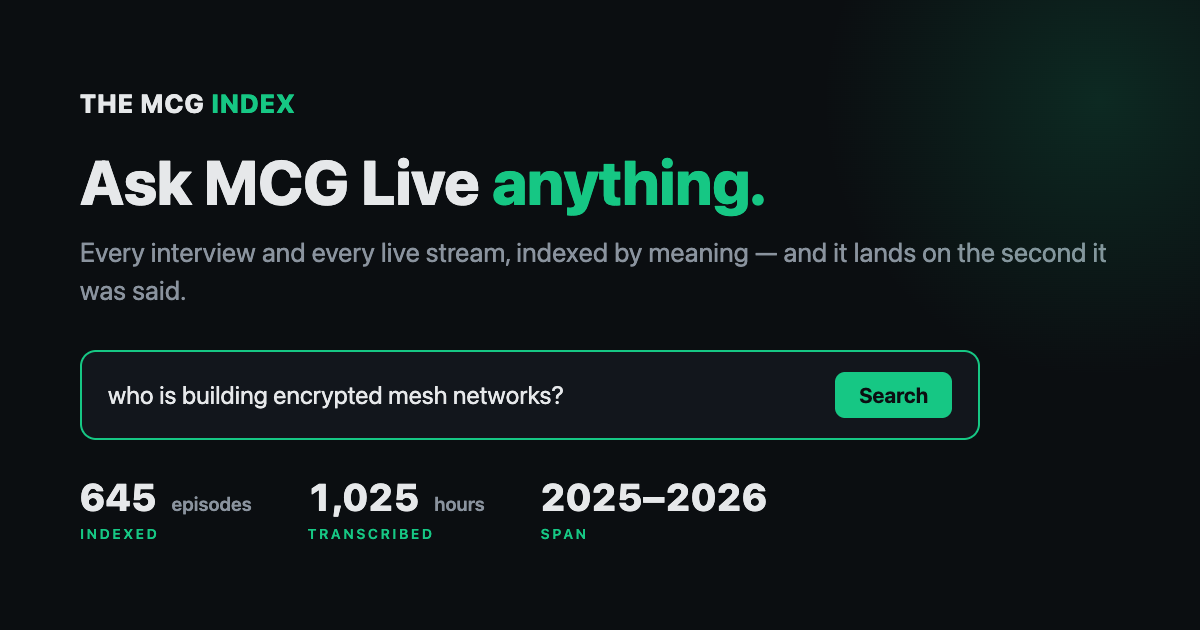
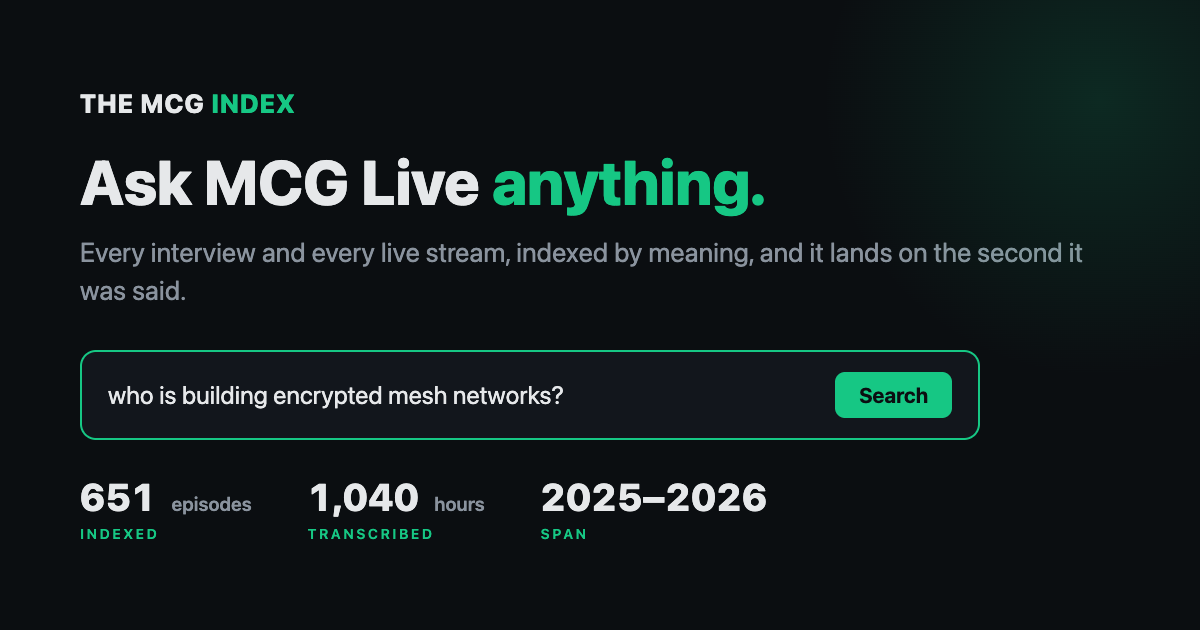
Give the finance page a share card, and stop the titles carrying em dashes
/finance declared twitter:card=summary_large_image and then shipped no
image, so every link to it rendered as a blank card. It has one now, in
the page's own paper and oxblood rather than the crypto green of the
other three, with a source file beside it so the numbers can be
re-rendered instead of going stale.

Its og:description was already stale: 19 recordings and 22.5 hours,
naming five of the eight subjects, against 30 and 36 today. The Musk
page had the same rot, 11 recordings and 31.8 hours against 14 and 37.8,
and the MCG card still drew 645 episodes and 1,025 hours against 651 and
1,040.

Every og:title used an em dash. They render on X, so they are copy.

Editing podcast.html's title then broke the share card: the per-question
og:title rewrite matched the old string literally and silently stopped
firing, which two tests caught. It now matches the tag by name, the way
the og:image rewrite four lines below it always did.

Changed region(s): [[0.6167, 0.3921, 0.925, 0.4222], [0.0925, 0.754, 0.1542, 0.8143], [0.3083, 0.754, 0.3392, 0.8143]]

diff --git a/demo/og-finance-card.html b/demo/og-finance-card.html
@@ -1,0 +1,74 @@
+<!DOCTYPE html>
+<!-- Source for the 1200x630 social preview image on the finance page
+     (og-finance.png). Re-render after edits:
+       node scripts/make_og_image.mjs finance
+
+     The finance page shipped with no og:image at all while declaring
+     twitter:card=summary_large_image, so every link to it rendered as a
+     blank card, and its og:description still claimed 19 recordings and
+     22.5 hours after the archive had grown to 30 and 36. Both numbers
+     live here and in finance.html, and both are changed together.
+
+     Deliberately not the crypto-green card the other three archives
+     use. This page reports a sentence somebody said on the record, so
+     it wears the paper and oxblood of the page itself. -->
+<html><head><meta charset="utf-8"><style>
+  @font-face { font-family: "Instrument Serif";
+    src: url("fonts/InstrumentSerif-Regular.ttf") format("truetype"); }
+  @font-face { font-family: "InterV";
+    src: url("fonts/Inter-Variable.ttf") format("truetype"); }
+  *{margin:0;padding:0;box-sizing:border-box}
+  body{width:1200px;height:630px;background:#f4f1ea;color:#17150f;
+    font-family:"InterV",-apple-system,BlinkMacSystemFont,sans-serif;
+    display:flex;flex-direction:column;justify-content:center;
+    padding:64px 76px;position:relative;overflow:hidden}
+  /* A press-sheet tint in the corner rather than a glow: the same job as
+     the dark cards' radial, in a palette that has no neon to spare. */
+  .tint{position:absolute;right:-200px;top:-220px;width:640px;height:640px;
+    border-radius:50%;background:radial-gradient(circle,#7c212814,transparent 70%)}
+  .eyebrow{font-family:ui-monospace,SFMono-Regular,Menlo,monospace;
+    font-size:14px;letter-spacing:.2em;text-transform:uppercase;
+    color:#7c2128;font-weight:600;margin-bottom:22px}
+  h1{font-family:"Instrument Serif",Georgia,serif;font-weight:400;
+    font-size:78px;line-height:1.02;letter-spacing:-1px;margin-bottom:16px}
+  /* Instrument Serif's italic y swings right into the next word, so the
+     space after <em> has to be paid for explicitly. */
+  h1 em{font-style:italic;color:#7c2128;margin-right:.14em}
+  .sub{font-size:24px;color:#4b4639;line-height:1.38;max-width:930px;
+    margin-bottom:34px}
+  .searchbox{display:flex;align-items:center;gap:14px;background:#fbfaf7;
+    border:1.5px solid #c8c0ac;border-radius:10px;padding:18px 22px;width:920px}
+  .searchbox .q{font-size:23px;color:#17150f;flex:1}
+  .searchbox .btn{background:#7c2128;color:#fbfaf7;font-weight:600;
+    font-size:19px;border-radius:7px;padding:10px 26px}
+  .readout{display:flex;gap:64px;margin-top:36px;align-items:flex-end}
+  .n{font-size:42px;font-weight:700;line-height:1;white-space:nowrap;
+     font-variant-numeric:tabular-nums;letter-spacing:-.5px}
+  .n span{font-size:18px;font-weight:500;color:#8a8371;margin-left:8px}
+  .who{font-family:ui-monospace,SFMono-Regular,Menlo,monospace;
+    font-size:12px;font-weight:600;letter-spacing:.16em;
+    text-transform:uppercase;color:#8a8371;margin-top:10px}
+  .names{font-family:"Instrument Serif",Georgia,serif;font-size:20px;
+    color:#4b4639;padding-bottom:5px;line-height:1.35;max-width:300px}
+</style></head><body>
+  <div class="tint"></div>
+  <div class="eyebrow">The Record</div>
+  <h1>What they <em>actually</em>&nbsp;said.</h1>
+  <div class="sub">Twelve years of long-form interviews with the people who run
+  the money, transcribed and searchable by meaning. Ask a question, get the
+  sentence and the second it was said.</div>
+  <div class="searchbox">
+    <div class="q">when did fink change his mind on bitcoin?</div>
+    <div class="btn">Ask</div>
+  </div>
+  <div class="readout">
+    <div><div class="n">30 <span>recordings</span></div>
+      <div class="who">indexed</div></div>
+    <div><div class="n">36 <span>hours</span></div>
+      <div class="who">transcribed</div></div>
+    <div><div class="n">2014<span style="margin:0 6px">to</span>2026</div>
+      <div class="who">span</div></div>
+    <div class="names">Fink &middot; Dalio &middot; Powell &middot; Dimon<br>
+      Wood &middot; Schwarzman &middot; Saylor &middot; Pal</div>
+  </div>
+</body></html>

diff --git a/demo/elon.html b/demo/elon.html
@@ -1,6 +1,6 @@
 <!doctype html>
 <meta charset="utf-8">
-<title>The Musk Record — every long-form interview, searchable to the second</title>
+<title>The Musk Record: every long-form interview, searchable to the second</title>
 <meta name="viewport" content="width=device-width,initial-scale=1">
 <meta name="description" content="Every long-form Elon Musk interview, transcribed and
 searchable by meaning. Ask a question, get the moment he said it, down to the second.">
@@ -11,8 +11,8 @@ searchable by meaning. Ask a question, get the moment he said it, down to the se
      og-musk.png is drawn from the archive's own figures rather than typed
      out, so it cannot drift from the page the way the "Five conversations"
      line did. Regenerate it whenever recordings are added. -->
-<meta property="og:title" content="The Musk Record — every long-form interview, searchable to the second">
-<meta property="og:description" content="11 conversations with Lex Fridman and Joe Rogan, 2018 to 2025. 31.8 hours, indexed by meaning. Ask a question, get the moment he said it.">
+<meta property="og:title" content="The Musk Record: every long-form interview, searchable to the second">
+<meta property="og:description" content="14 conversations with Lex Fridman, Joe Rogan, the Economist and the 2024 Trump space, 2018 to 2026. 37.8 hours, indexed by meaning. Ask a question, get the moment he said it.">
 <meta property="og:image" content="https://search.lexthedev.com/demo/og-musk.png">
 <meta property="og:image:width" content="1200">
 <meta property="og:image:height" content="630">
@@ -20,10 +20,10 @@ searchable by meaning. Ask a question, get the moment he said it, down to the se
 <meta property="og:type" content="website">
 <meta property="og:site_name" content="The Musk Record">
 <meta name="twitter:card" content="summary_large_image">
-<meta name="twitter:title" content="The Musk Record — every long-form interview, searchable to the second">
-<meta name="twitter:description" content="11 conversations with Lex Fridman and Joe Rogan, 2018 to 2025. 31.8 hours, indexed by meaning. Ask a question, get the moment he said it.">
+<meta name="twitter:title" content="The Musk Record: every long-form interview, searchable to the second">
+<meta name="twitter:description" content="14 conversations with Lex Fridman, Joe Rogan, the Economist and the 2024 Trump space, 2018 to 2026. 37.8 hours, indexed by meaning. Ask a question, get the moment he said it.">
 <meta name="twitter:image" content="https://search.lexthedev.com/demo/og-musk.png">
-<meta name="twitter:image:alt" content="The Musk Record — 11 recordings, 31.8 hours, 44,346 spoken lines, 2018 to 2025">
+<meta name="twitter:image:alt" content="The Musk Record: 14 recordings, 37.8 hours, 50,123 spoken lines, 2018 to 2026">
 
 <!--
   A deliberately different room from the Market Bubble page.

diff --git a/demo/clawpump.html b/demo/clawpump.html
@@ -3,19 +3,19 @@
 <head>
 <meta charset="utf-8">
 <meta name="viewport" content="width=device-width,initial-scale=1">
-<title>ClawPump Support — answers from the docs, with sources</title>
+<title>ClawPump Support: answers from the docs, with sources</title>
 <meta name="description" content="An independent support assistant for ClawPump — agents, skills, gasless launches, creator fees and the MCP server, answered from ClawPump's public documentation.">
 <!-- Social preview (X/Discord/Telegram unfurl). Without an og:image and a
      twitter:card, X renders a bare grey stub instead of a card. No og:url:
      naming a canonical lets a scraper resolve a fresh link back to whatever
      it cached against that URL. -->
-<meta property="og:title" content="ClawPump Support — answers from the docs, with sources">
-<meta property="og:description" content="Agents, skills, gasless launches, creator fees and MCP — answered from ClawPump's docs, citing the page it used. Says &quot;I don't have that&quot; instead of guessing.">
+<meta property="og:title" content="ClawPump Support: answers from the docs, with sources">
+<meta property="og:description" content="Agents, skills, gasless launches, creator fees and MCP, answered from ClawPump's docs, citing the page it used. Says &quot;I don't have that&quot; instead of guessing.">
 <meta property="og:image" content="https://concierge.lexthedev.com/demo/og-clawpump-scam.png">
 <meta property="og:type" content="website">
 <meta name="twitter:card" content="summary_large_image">
-<meta name="twitter:title" content="ClawPump Support — answers from the docs, with sources">
-<meta name="twitter:description" content="Agents, skills, gasless launches, creator fees and MCP — answered from ClawPump's docs, citing the page it used. Says &quot;I don't have that&quot; instead of guessing.">
+<meta name="twitter:title" content="ClawPump Support: answers from the docs, with sources">
+<meta name="twitter:description" content="Agents, skills, gasless launches, creator fees and MCP, answered from ClawPump's docs, citing the page it used. Says &quot;I don't have that&quot; instead of guessing.">
 <meta name="twitter:image" content="https://concierge.lexthedev.com/demo/og-clawpump-scam.png">
 <link rel="stylesheet" href="/demo/ui.css">
 <style>

diff --git a/demo/finance.html b/demo/finance.html
@@ -1,19 +1,24 @@
 <!doctype html>
 <meta charset="utf-8">
-<title>The Record — what finance's biggest names actually said, to the second</title>
+<title>The Record: what finance's biggest names actually said, to the second</title>
 <meta name="viewport" content="width=device-width,initial-scale=1">
 <meta name="description" content="Fink, Dalio, Dimon, Schwarzman and Saylor. Twelve years
 of long-form interviews, transcribed and searchable by meaning. Ask a question, get the
 moment they said it, down to the second.">
 
-<meta property="og:title" content="The Record — what finance's biggest names actually said">
-<meta property="og:description" content="Fink, Dalio, Dimon, Schwarzman, Saylor. 19 recordings, 22.5 hours, 2014 to 2026. Searchable by meaning, cited to the second.">
+<meta property="og:title" content="The Record: what finance's biggest names actually said">
+<meta property="og:description" content="Fink, Dalio, Powell, Dimon, Cathie Wood, Schwarzman, Saylor, Raoul Pal. 30 recordings, 36 hours, 2014 to 2026. Searchable by meaning, cited to the second.">
+<meta property="og:image" content="https://search.lexthedev.com/demo/og-finance.png">
+<meta property="og:image:width" content="1200">
+<meta property="og:image:height" content="630">
 <meta property="og:url" content="https://search.lexthedev.com/finance">
 <meta property="og:type" content="website">
 <meta property="og:site_name" content="The Record">
 <meta name="twitter:card" content="summary_large_image">
-<meta name="twitter:title" content="The Record — what finance's biggest names actually said">
-<meta name="twitter:description" content="Fink, Dalio, Dimon, Schwarzman, Saylor. 19 recordings, 22.5 hours, 2014 to 2026. Cited to the second.">
+<meta name="twitter:image" content="https://search.lexthedev.com/demo/og-finance.png">
+<meta name="twitter:image:alt" content="The Record: 30 recordings, 36 hours, eight names, 2014 to 2026">
+<meta name="twitter:title" content="The Record: what finance's biggest names actually said">
+<meta name="twitter:description" content="Fink, Dalio, Powell, Dimon, Cathie Wood, Schwarzman, Saylor, Raoul Pal. 30 recordings, 36 hours. Cited to the second.">
 
 <!--
   A deliberately different room again, and this time a lit one.

diff --git a/demo/podcast.html b/demo/podcast.html
@@ -3,10 +3,10 @@
 <head>
 <meta charset="utf-8">
 <meta name="viewport" content="width=device-width, initial-scale=1">
-<title>Market Bubble Search — ask the broadcast anything</title>
+<title>Market Bubble Search: ask the broadcast anything</title>
 <meta name="description" content="Search every Market Bubble episode by meaning and jump to the exact moment on YouTube. Free, no login, open source.">
 <!-- Social preview (X/Discord/Telegram unfurl) -->
-<meta property="og:title" content="Market Bubble Search — ask the broadcast anything">
+<meta property="og:title" content="Market Bubble Search: ask the broadcast anything">
 <meta property="og:description" content="Search every episode by meaning and jump to the exact moment on YouTube. Free, no login, open source.">
 <meta property="og:image" content="https://search.lexthedev.com/demo/og-broadcast.png">
 <!-- Pins the canonical URL for the unfurl. Without it, a link carrying a
@@ -16,7 +16,7 @@
 <meta property="og:url" content="https://search.lexthedev.com/demo/podcast.html?v=2">
 <meta property="og:type" content="website">
 <meta name="twitter:card" content="summary_large_image">
-<meta name="twitter:title" content="Market Bubble Search — ask the broadcast anything">
+<meta name="twitter:title" content="Market Bubble Search: ask the broadcast anything">
 <meta name="twitter:description" content="Search every episode by meaning and jump to the exact moment on YouTube. Free, no login, open source.">
 <meta name="twitter:image" content="https://search.lexthedev.com/demo/og-broadcast.png">
 <link rel="preconnect" href="https://fonts.googleapis.com">

diff --git a/demo/mcg.html b/demo/mcg.html
@@ -1,6 +1,6 @@
 <!doctype html>
 <meta charset="utf-8">
-<title>The MCG Index — ask MCG Live anything</title>
+<title>The MCG Index: ask MCG Live anything</title>
 <meta name="viewport" content="width=device-width,initial-scale=1">
 <meta name="description" content="Every MCG interview and live stream, transcribed
 and searchable by meaning. 649 episodes, 1,036 hours. Ask a question, get the
@@ -37,7 +37,7 @@ moment.">
 <link rel="stylesheet" href="/demo/ui.css">
 <link rel="icon" href="/demo/logo-200.png">
 
-<meta property="og:title" content="The MCG Index — ask MCG Live anything">
+<meta property="og:title" content="The MCG Index: ask MCG Live anything">
 <meta property="og:description" content="Every MCG interview, transcribed and indexed by meaning. Ask a question, get the project and the moment it was said.">
 <meta property="og:image" content="https://search.lexthedev.com/demo/og-mcg.png">
 <meta property="og:image:width" content="1200">
@@ -45,7 +45,7 @@ moment.">
 <meta property="og:url" content="https://search.lexthedev.com/demo/mcg.html">
 <meta property="og:type" content="website">
 <meta name="twitter:card" content="summary_large_image">
-<meta name="twitter:title" content="The MCG Index — ask MCG Live anything">
+<meta name="twitter:title" content="The MCG Index: ask MCG Live anything">
 <meta name="twitter:description" content="Every MCG interview, transcribed and indexed by meaning. Ask a question, get the project and the moment it was said.">
 <meta name="twitter:image" content="https://search.lexthedev.com/demo/og-mcg.png">
 

diff --git a/demo/concierge.html b/demo/concierge.html
@@ -9,12 +9,12 @@
      twitter:card, X renders a bare grey stub instead of a card. No og:url:
      naming a canonical lets a scraper resolve a fresh link back to whatever
      it cached against that URL. -->
-<meta property="og:title" content="Bullpen Concierge — answers from the docs, with the receipts">
+<meta property="og:title" content="Bullpen Concierge: answers from the docs, with the receipts">
 <meta property="og:description" content="Wallets, funding, order types and the $ANSEM claim, answered from Bullpen's official docs and citing the page it used. Says &quot;I don't have that&quot; instead of guessing.">
 <meta property="og:image" content="https://concierge.lexthedev.com/demo/og-concierge.png">
 <meta property="og:type" content="website">
 <meta name="twitter:card" content="summary_large_image">
-<meta name="twitter:title" content="Bullpen Concierge — answers from the docs, with the receipts">
+<meta name="twitter:title" content="Bullpen Concierge: answers from the docs, with the receipts">
 <meta name="twitter:description" content="Wallets, funding, order types and the $ANSEM claim, answered from Bullpen's official docs and citing the page it used. Says &quot;I don't have that&quot; instead of guessing.">
 <meta name="twitter:image" content="https://concierge.lexthedev.com/demo/og-concierge.png">
 <link rel="stylesheet" href="/demo/ui.css">

diff --git a/demo/og-mcg-card.html b/demo/og-mcg-card.html
@@ -37,15 +37,15 @@
   <div class="brand">THE MCG <span>INDEX</span></div>
   <h1>Ask MCG Live <em>anything.</em></h1>
   <div class="sub">Every interview and every live stream, indexed by
-  meaning — and it lands on the second it was said.</div>
+  meaning, and it lands on the second it was said.</div>
   <div class="searchbox">
     <div class="q">who is building encrypted mesh networks?</div>
     <div class="btn">Search</div>
   </div>
   <div class="readout">
-    <div><div class="n">645 <span>episodes</span></div>
+    <div><div class="n">651 <span>episodes</span></div>
       <div class="who">indexed</div></div>
-    <div><div class="n">1,025 <span>hours</span></div>
+    <div><div class="n">1,040 <span>hours</span></div>
       <div class="who">transcribed</div></div>
     <div><div class="n">2025&ndash;2026 <span></span></div>
       <div class="who">span</div></div>

diff --git a/app/main.py b/app/main.py
@@ -555,14 +555,16 @@ async def podcast_page(request: Request):
         # The question, as the title. Escaped because it lands inside an
         # HTML attribute and arrives from a URL anybody can craft.
         shown = html_escape(asked[:110], quote=True)
-        page = page.replace(
-            '<meta property="og:title" content="Market Bubble Search '
-            '— ask the broadcast anything">',
-            f'<meta property="og:title" content="&#8220;{shown}&#8221;">')
-        page = page.replace(
-            '<meta name="twitter:title" content="Market Bubble Search '
-            '— ask the broadcast anything">',
-            f'<meta name="twitter:title" content="&#8220;{shown}&#8221;">')
+        # Matched by tag rather than by the page's exact title text. The
+        # literal version silently stopped firing the moment the title was
+        # copy-edited, and a share card that quietly reverts to the generic
+        # title is the kind of break nobody notices for a week.
+        for tag_name in ("og:title", "twitter:title"):
+            prefix = "property" if tag_name.startswith("og:") else "name"
+            page = re.sub(
+                rf'<meta {prefix}="{tag_name}" content="[^"]*">',
+                f'<meta {prefix}="{tag_name}" content="&#8220;{shown}&#8221;">',
+                page, count=1)
         # The card is drawn per question too, so the image and the title
         # stop showing two different ones.
         card = f"{canonical.split('?')[0].rsplit('/demo/', 1)[0]}/og/search.png?q={quote_plus(asked[:180])}"
